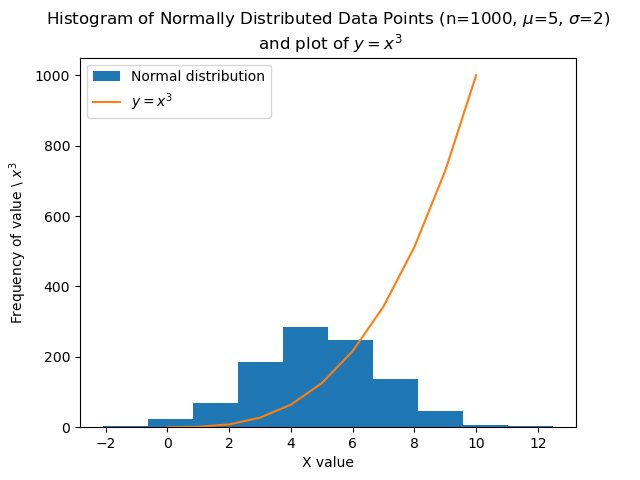
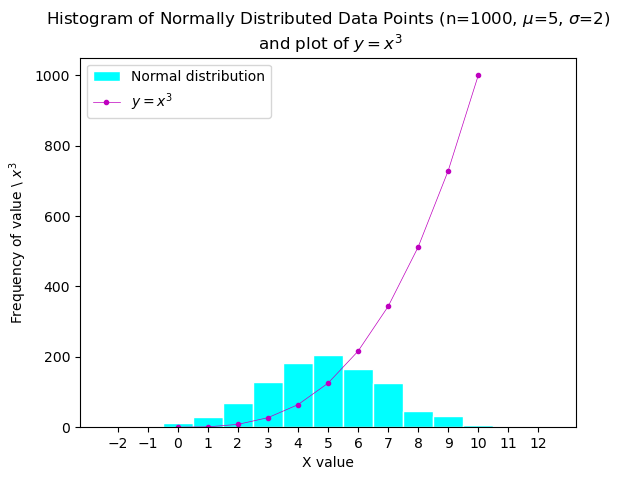
feat:(plottask) Set line widths, set xticks

diff --git a/plottask.py b/plottask.py
@@ -57,7 +57,7 @@ plt.hist(
 # Plot the function y=x^3, on the same plot
 plt.plot(
     x_values,y_values, label="$y=x^3$", color="m", 
-    marker="o", linewidth=0.5
+    marker="o", markersize=3, linewidth=0.5
     )
 
 # Add title and labels
@@ -71,6 +71,9 @@ plt.title(
 plt.xlabel("X value")
 plt.ylabel(f"Frequency of value \\ $x^{index}$")
 plt.legend()
+
+# set x-axis ticks to show all bin values in histogram
+plt.xticks(range(lowest_bin_centre, highest_bin_centre, 1))
 
 # Print to file
 plt.savefig('histogram_and_cube_function.png')
